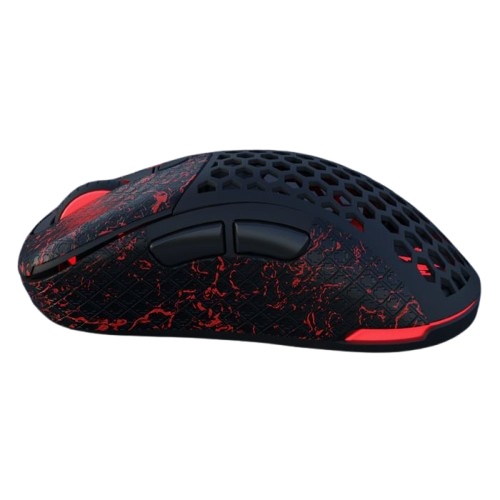
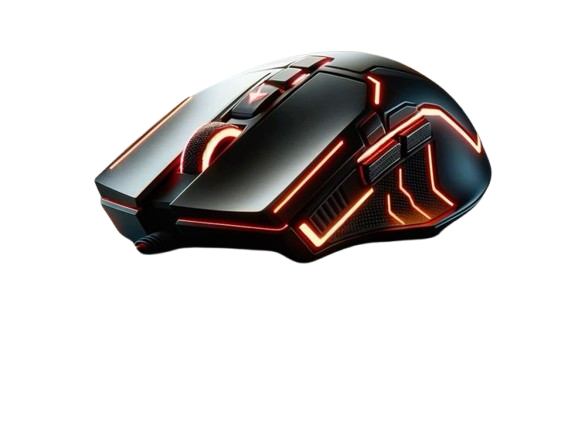
commited some changes

diff --git a/frontend/src/components/common/ProductCard/ProductCard.css b/frontend/src/components/common/ProductCard/ProductCard.css
@@ -1,20 +1,21 @@
 .product-card {
   position: relative;
+  display: flex;
+  flex-direction: column;
+  justify-content: flex-start;
   background: none;
   border: 1px solid var(--color-border);
   border-radius: var(--radius-md);
   padding: var(--space-lg);
   overflow: hidden;
   width: 100%;
+  height: 480px;
   transition: border-color 0.4s ease;
-}
-
-.product-card:hover {
-  border-color: var(--color-accent-primary);
 }
 
 .product-card-image-zone {
   position: relative;
+  flex-shrink: 0;
   height: 270px;
   display: flex;
   align-items: center;
@@ -85,10 +86,20 @@
   object-fit: contain;
   transform: translateY(12px);
   transition: transform 0.5s ease;
+  animation: product-card-image-fade 0.4s ease;
 }
 
 .product-card:hover .product-card-image {
-  transform: translateY(-16px);
+  transform: translateY(-20px);
+}
+
+@keyframes product-card-image-fade {
+  from {
+    opacity: 0;
+  }
+  to {
+    opacity: 1;
+  }
 }
 
 .product-card-nav {
@@ -132,33 +143,29 @@
 }
 
 .product-card-add-to-cart {
+  position: absolute;
+  left: 0;
+  right: 0;
+  bottom: 0;
   display: flex;
   align-items: center;
   justify-content: center;
   gap: var(--space-sm);
-  width: 100%;
+  height: 56px;
   background: var(--color-accent-primary);
   color: var(--color-text-primary);
-  font-size: var(--font-size-sm);
+  font-size: var(--font-size-base);
   font-weight: 700;
+  letter-spacing: 0.5px;
   border: none;
-  border-radius: var(--radius-sm);
+  border-radius: 0;
   cursor: pointer;
-
-  max-height: 0;
-  height: 0;
-  padding: 0;
-  margin-top: 0;
+  transform: translateY(150%);
   opacity: 0;
-  overflow: hidden;
-  transition: max-height 0.5s ease, height 0.5s ease, opacity 0.4s ease,
-    margin-top 0.5s ease, padding 0.5s ease;
+  transition: transform 0.5s ease, opacity 0.4s ease;
 }
 
 .product-card:hover .product-card-add-to-cart {
-  max-height: 100px;
-  height: var(--button-height-md);
-  padding: 0 var(--space-md);
+  transform: translateY(0);
   opacity: 1;
-  margin-top: var(--space-md);
 }

diff --git a/frontend/src/components/sections/TopRatedProducts/TopRatedProducts.jsx b/frontend/src/components/sections/TopRatedProducts/TopRatedProducts.jsx
@@ -1,9 +1,19 @@
 // components/sections/TopRatedProducts/TopRatedProducts.jsx
 import ProductCard from "../../common/ProductCard/ProductCard";
-import PromoCard from "../../common/PromoCard";
+import PromoCard from "../../common/PromoCard/PromoCard";
 import "./TopRatedProducts.css";
 import mouseImg from "./../../../assets/mouse-top-rated.png";
 import mouseImg2 from "./../../../assets/mouse-1-top-rated.png";
+import HDD from "./../../../assets/HDD.png";
+import HDD1 from "./../../../assets/HDD-1.png";
+import vrPromo from "./../../../assets/vr-promo.png";
+import headsetPromo from "./../../../assets/headset-promo.png";
+import gamingGlassCPU from "./../../../assets/gaming-glass-cpu.png";
+import gamingGlassCPU1 from "./../../../assets/gmaing-glass-cpu-1.png";
+import desktopMem from "./../../../assets/desktop-mem.png";
+import desktopMem1 from "./../../../assets/desktop-mem-1.png";
+import acerRedMonitor from "./../../../assets/acer-red-monitor.png";
+import acerBlueMonitor from "./../../../assets/acer-blue-monitor.png";
 
 const promos = [
   {
@@ -12,7 +22,7 @@ const promos = [
     subtitle: 'MF841HN/A 13"',
     label: "Starting at",
     price: "$1,750",
-    image: null, // TODO: add real image
+    image: vrPromo,
   },
   {
     id: "promo-2",
@@ -20,7 +30,7 @@ const promos = [
     subtitle: null,
     label: "Discount -30%",
     price: "$349",
-    image: null, // TODO: add real image
+    image: headsetPromo,
   },
 ];
 
@@ -39,10 +49,7 @@ const products = [
     name: "Fractal Design 850-PW Tempered Glass Computer Case",
     price: 2790,
     badge: "NEW",
-    images: [
-      "https://placehold.co/300x300/1a1a1a/666666?text=Case+1",
-      "https://placehold.co/300x300/1a1a1a/666666?text=Case+2",
-    ],
+    images: [gamingGlassCPU, gamingGlassCPU1],
   },
   {
     id: 3,
@@ -50,10 +57,7 @@ const products = [
     name: 'MBD214 147GB 10000 RPM 16MB Cache SAS 6Gb/s 2.5" Hard Drive',
     price: 2330,
     badge: null,
-    images: [
-      "https://placehold.co/300x300/1a1a1a/666666?text=HDD+1",
-      "https://placehold.co/300x300/1a1a1a/666666?text=HDD+2",
-    ],
+    images: [HDD, HDD1],
   },
   {
     id: 4,
@@ -61,21 +65,15 @@ const products = [
     name: "FTW-3553 8GB 2666MHz DDR4 DIMM Desktop Memory",
     price: 1280,
     badge: null,
-    images: [
-      "https://placehold.co/300x300/1a1a1a/666666?text=RAM+1",
-      "https://placehold.co/300x300/1a1a1a/666666?text=RAM+2",
-    ],
+    images: [desktopMem, desktopMem1],
   },
   {
     id: 5,
     category: "Premium Laptops",
-    name: "High Definition Monitor Red/Black Expo SDS-855697",
+    name: "High Definition Monitor Red/Blue Expo SDS-855697",
     price: 1490,
     badge: "SOLD",
-    images: [
-      "https://placehold.co/300x300/1a1a1a/666666?text=Monitor+1",
-      "https://placehold.co/300x300/1a1a1a/666666?text=Monitor+2",
-    ],
+    images: [acerRedMonitor, acerBlueMonitor],
   },
 ];
 
@@ -83,6 +81,7 @@ const TopRatedProducts = () => {
   return (
     <section className="top-rated-products">
       <h2 className="top-rated-products-title">Top Rated Products</h2>
+
       <div className="top-rated-products-grid">
         {products.map((product) => (
           <ProductCard key={product.id} product={product} />

diff --git a/frontend/src/components/sections/Hero/Hero.jsx b/frontend/src/components/sections/Hero/Hero.jsx
@@ -91,7 +91,7 @@ const Hero = () => {
   return (
     <section className="hero">
       <button className="hero-arrow hero-arrow-left" onClick={prevSlide} aria-label="Previous slide">
-        <i class="bi bi-chevron-left"></i>
+        <i className="bi bi-chevron-left"></i>
       </button>
 
       <div className="hero-content">
@@ -99,7 +99,7 @@ const Hero = () => {
           <h1 className="hero-title">{slide.title}</h1>
           <p className="hero-subtitle">{slide.subtitle}</p>
           <a href={slide.ctaLink} className="hero-cta">
-            {slide.ctaText} <i class="bi bi-chevron-right"></i>
+            {slide.ctaText} <i className="bi bi-chevron-right"></i>
           </a>
         </div>
 
@@ -109,14 +109,14 @@ const Hero = () => {
       </div>
 
       <button className="hero-arrow hero-arrow-right" onClick={nextSlide} aria-label="Next slide">
-        <i class="bi bi-chevron-right"></i>
+        <i className="bi bi-chevron-right"></i>
       </button>
 
       {/* Progress line removed per your request — was here before, now gone */}
 
       <div className="hero-category-bar">
         <button className="hero-category-arrow hero-category-arrow-left" onClick={() => scrollCategories(-1)} disabled={categoryOffset === 0} aria-label="Scroll categories left">
-          <i class="bi bi-chevron-left"></i>
+          <i className="bi bi-chevron-left"></i>
         </button>
 
         <div className="hero-category-inner">
@@ -129,7 +129,7 @@ const Hero = () => {
               const realIndex = categoryOffset + i;
               return (
                 <button key={cat.id} className={`hero-category-item ${activeCategory === realIndex ? "hero-category-active" : ""}`} onClick={() => setActiveCategory(realIndex)}>
-                  <i class={`bi ${cat.icon}`}></i>
+                  <i className={`bi ${cat.icon}`}></i>
                   <span>{cat.label}</span>
                 </button>
               );
@@ -143,7 +143,7 @@ const Hero = () => {
           disabled={categoryOffset === maxCategoryOffset}
           aria-label="Scroll categories right"
         >
-          <i class="bi bi-chevron-right"></i>
+          <i className="bi bi-chevron-right"></i>
         </button>
       </div>
     </section>

diff --git a/frontend/src/components/common/ProductCard/ProductCard.jsx b/frontend/src/components/common/ProductCard/ProductCard.jsx
@@ -47,10 +47,10 @@ const ProductCard = ({ product }) => {
             onClick={toggleWishlist}
             aria-label="Add to wishlist"
           >
-            <i class="bi bi-heart"></i>
+            <i className="bi bi-heart"></i>
           </button>
           <button className="product-card-icon-btn" aria-label="Compare">
-            <i class="bi bi-arrow-left-right"></i>
+            <i className="bi bi-arrow-left-right"></i>
           </button>
         </div>
 
@@ -63,6 +63,7 @@ const ProductCard = ({ product }) => {
         )}
 
         <img
+          key={imageIndex}
           src={images[imageIndex]}
           alt={product.name}
           className="product-card-image"
@@ -75,14 +76,14 @@ const ProductCard = ({ product }) => {
               onClick={prevImage}
               aria-label="Previous image"
             >
-              <i class="bi bi-chevron-left"></i>
+              <i className="bi bi-chevron-left"></i>
             </button>
             <button
               className="product-card-nav product-card-nav-right"
               onClick={nextImage}
               aria-label="Next image"
             >
-              <i class="bi bi-chevron-right"></i>
+              <i className="bi bi-chevron-right"></i>
             </button>
           </>
         )}
@@ -93,7 +94,7 @@ const ProductCard = ({ product }) => {
         <p className="product-card-price">{formatPrice(product.price)}</p>
 
         <button className="product-card-add-to-cart" onClick={handleAddToCart}>
-          ADD TO CART <i class="bi bi-cart"></i>
+          ADD TO CART <i className="bi bi-cart"></i>
         </button>
       </div>
     </div>

diff --git a/frontend/src/components/sections/TopRatedProducts/TopRatedProducts.css b/frontend/src/components/sections/TopRatedProducts/TopRatedProducts.css
@@ -11,6 +11,7 @@
   color: var(--color-text-primary);
   max-width: var(--container-max-width);
   margin: 0 auto var(--space-xl);
+  margin-top: 25px;
 }
 
 .top-rated-products-grid {